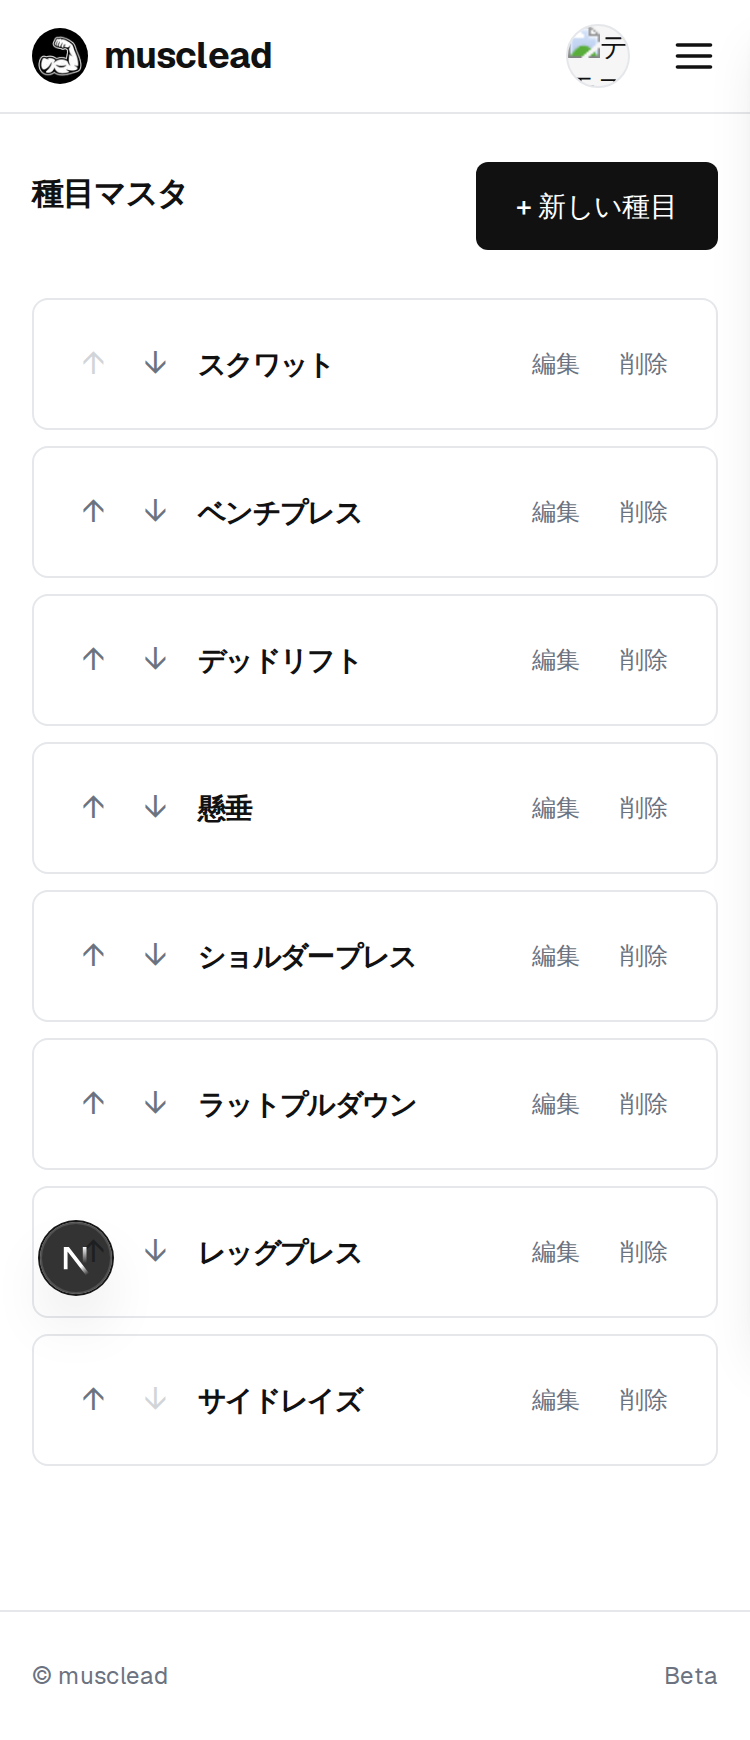
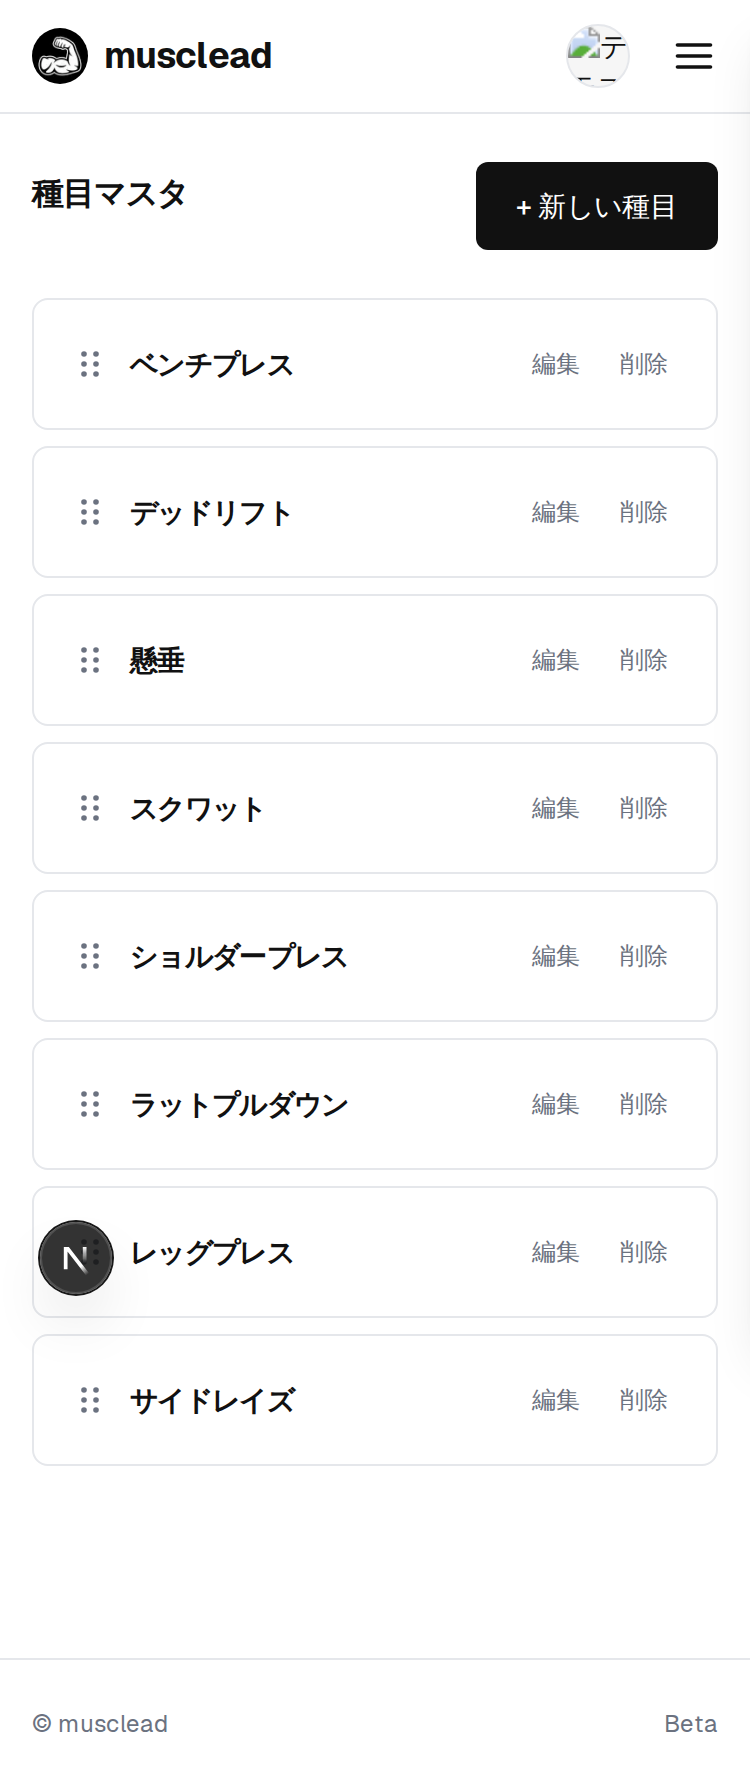
refactor(web): 種目マスタの並び替えをドラッグ&ドロップ化
↑/↓ ボタンをやめ、 グリップハンドルを掴んで D&D で並び替える UI に
変更。 @user を採用(PointerSensor + KeyboardSensor でタッチ/
キーボード操作と a11y に対応)。 並び替え後は既存の reorder API を
そのまま呼ぶ(サーバー変更なし)。

スクリーンショットを D&D 版に差し替え。

https://claude.ai/code/session_014yXs8n5t9bf4LdJ8i2rtFR

diff --git a/web/src/app/exercises/page.tsx b/web/src/app/exercises/page.tsx
@@ -3,6 +3,23 @@
 import Link from "next/link";
 import { useRouter } from "next/navigation";
 import { useEffect } from "react";
+import {
+  DndContext,
+  KeyboardSensor,
+  PointerSensor,
+  closestCenter,
+  useSensor,
+  useSensors,
+  type DragEndEvent,
+} from "@dnd-kit/core";
+import {
+  SortableContext,
+  arrayMove,
+  sortableKeyboardCoordinates,
+  useSortable,
+  verticalListSortingStrategy,
+} from "@dnd-kit/sortable";
+import { CSS } from "@dnd-kit/utilities";
 import { useAccessToken } from "@/shared/auth/access-token";
 import {
   ExerciseInUseError,
@@ -25,16 +42,23 @@ export default function ExercisesPage() {
   const del = useDeleteExerciseMutation();
   const reorder = useReorderExercisesMutation();
 
+  const sensors = useSensors(
+    // ハンドルから 6px 以上動かして初めてドラッグ開始。 タップ(編集/削除)と誤検知しないため。
+    useSensor(PointerSensor, { activationConstraint: { distance: 6 } }),
+    useSensor(KeyboardSensor, { coordinateGetter: sortableKeyboardCoordinates }),
+  );
+
   if (!ready || !token) return null;
 
   const exercises = query.data ?? [];
 
-  const move = (index: number, direction: -1 | 1) => {
-    const to = index + direction;
-    if (to < 0 || to >= exercises.length) return;
-    const next = [...exercises];
-    [next[index], next[to]] = [next[to], next[index]];
-    reorder.mutate(next);
+  const handleDragEnd = (event: DragEndEvent) => {
+    const { active, over } = event;
+    if (!over || active.id === over.id) return;
+    const from = exercises.findIndex((e) => e.id === active.id);
+    const to = exercises.findIndex((e) => e.id === over.id);
+    if (from === -1 || to === -1) return;
+    reorder.mutate(arrayMove(exercises, from, to));
   };
 
   return (
@@ -70,67 +94,76 @@ export default function ExercisesPage() {
       )}
 
       {exercises.length > 0 && (
-        <ul className="space-y-2">
-          {exercises.map((ex, index) => (
-            <ExerciseRow
-              key={ex.id}
-              exercise={ex}
-              onMoveUp={index > 0 ? () => move(index, -1) : undefined}
-              onMoveDown={
-                index < exercises.length - 1 ? () => move(index, 1) : undefined
-              }
-              reordering={reorder.isPending}
-              onDelete={() => {
-                if (confirm(`「${ex.name}」 を削除しますか?`)) {
-                  del.mutate(ex.id);
-                }
-              }}
-              deleting={del.isPending}
-            />
-          ))}
-        </ul>
+        <DndContext
+          sensors={sensors}
+          collisionDetection={closestCenter}
+          onDragEnd={handleDragEnd}
+        >
+          <SortableContext
+            items={exercises.map((e) => e.id)}
+            strategy={verticalListSortingStrategy}
+          >
+            <ul className="space-y-2">
+              {exercises.map((ex) => (
+                <SortableExerciseRow
+                  key={ex.id}
+                  exercise={ex}
+                  onDelete={() => {
+                    if (confirm(`「${ex.name}」 を削除しますか?`)) {
+                      del.mutate(ex.id);
+                    }
+                  }}
+                  deleting={del.isPending}
+                />
+              ))}
+            </ul>
+          </SortableContext>
+        </DndContext>
       )}
     </div>
   );
 }
 
-function ExerciseRow({
+function SortableExerciseRow({
   exercise,
-  onMoveUp,
-  onMoveDown,
-  reordering,
   onDelete,
   deleting,
 }: {
   exercise: Exercise;
-  onMoveUp?: () => void;
-  onMoveDown?: () => void;
-  reordering: boolean;
   onDelete: () => void;
   deleting: boolean;
 }) {
+  const {
+    attributes,
+    listeners,
+    setNodeRef,
+    transform,
+    transition,
+    isDragging,
+  } = useSortable({ id: exercise.id });
+
+  const style = {
+    transform: CSS.Transform.toString(transform),
+    transition,
+  };
+
   return (
-    <li className="bg-[var(--color-surface)] border border-[var(--color-line)] rounded-lg p-4 flex items-center justify-between gap-2">
-      <div className="flex items-center gap-1 shrink-0">
-        <button
-          type="button"
-          onClick={onMoveUp}
-          disabled={reordering || !onMoveUp}
-          className="text-[var(--color-ink-muted)] hover:text-[var(--color-ink)] disabled:opacity-30 px-2 h-8"
-          aria-label="上へ"
-        >
-          ↑
-        </button>
-        <button
-          type="button"
-          onClick={onMoveDown}
-          disabled={reordering || !onMoveDown}
-          className="text-[var(--color-ink-muted)] hover:text-[var(--color-ink)] disabled:opacity-30 px-2 h-8"
-          aria-label="下へ"
-        >
-          ↓
-        </button>
-      </div>
+    <li
+      ref={setNodeRef}
+      style={style}
+      className={`bg-[var(--color-surface)] border border-[var(--color-line)] rounded-lg p-4 flex items-center justify-between gap-2 ${
+        isDragging ? "z-10 shadow-lg opacity-90" : ""
+      }`}
+    >
+      <button
+        type="button"
+        {...attributes}
+        {...listeners}
+        aria-label="ドラッグして並び替え"
+        className="shrink-0 text-[var(--color-ink-muted)] hover:text-[var(--color-ink)] touch-none cursor-grab active:cursor-grabbing px-1 h-8 inline-flex items-center"
+      >
+        <GripIcon />
+      </button>
       <Link
         href={`/exercises/${exercise.id}/edit`}
         className="flex-1 min-w-0 hover:opacity-70 transition-opacity"
@@ -154,5 +187,18 @@ function ExerciseRow({
         </button>
       </div>
     </li>
+  );
+}
+
+function GripIcon() {
+  return (
+    <svg width="16" height="16" viewBox="0 0 16 16" fill="currentColor" aria-hidden="true">
+      <circle cx="5" cy="3" r="1.4" />
+      <circle cx="11" cy="3" r="1.4" />
+      <circle cx="5" cy="8" r="1.4" />
+      <circle cx="11" cy="8" r="1.4" />
+      <circle cx="5" cy="13" r="1.4" />
+      <circle cx="11" cy="13" r="1.4" />
+    </svg>
   );
 }